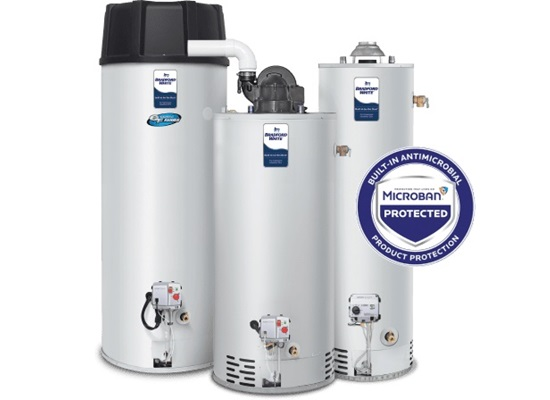
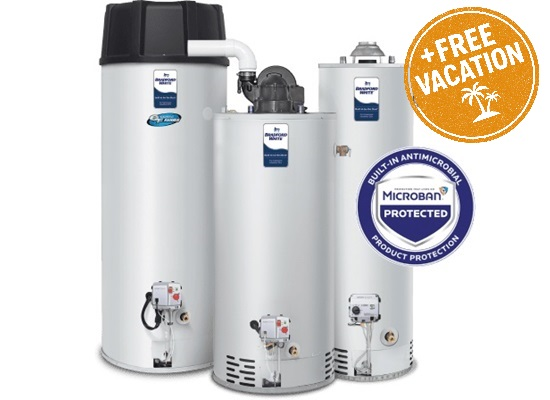
Fee Vacation promotion edits

Changed region(s): [[0.7109, 0.0, 0.9891, 0.36]]

diff --git a/freevacation.html b/freevacation.html
@@ -2,7 +2,7 @@
 <html lang="en">
   <head>
     <meta charset="utf-8" />
-    <title>Promotion: Buy a Water Heater and Get a Free Vacation</title>
+    <title>Buy a Water Heater and Get a Free Vacation</title>
     <meta content="width=device-width, initial-scale=1.0" name="viewport" />
     <link rel="canonical" href="https://galico.ca">
     <meta property="og:title" content="Galico | Professional Gas Installation">
@@ -252,9 +252,10 @@
                 </div>
               </div> 
 	
-	</section>
+	</section><p>
+	<i>Please note: “Free Vacation” refers only to hotel accommodation. Meals, transportation, taxes, and other travel expenses are the responsibility of the voucher holder. Visist RedeemVactions.com for <a href="https://www.redeemvacations.com/terms-and-conditions" target="_blank">Terms and Conditions</a>.</i>
+  </p>
   </div>
-
 
 <section class="container py-5" id="vacation-locations">
   <h2 class="mb-4">Choose from Tons of Exciting Destinations</h2>
@@ -265,8 +266,8 @@
     Stays typically range from 3 to 8 nights. Booking fees, nightly taxes, and surcharges may apply, and vary based on dates.  
     For 3-night stays, consider booking Sunday–Thursday to avoid higher weekend surcharges.  
     Many hotels accept <strong>2 children up to 12 years</strong> in the room with adults (21+), though not all properties guarantee this.
-	Please visist RedeemVactions.com for <a href="https://www.redeemvacations.com/terms-and-conditions" target="_blank">Terms and Conditions</a>.
   </p>
+  
 
   <div class="row g-4">
   

diff --git a/waterheater.html b/waterheater.html
@@ -2,7 +2,7 @@
 <html lang="en">
   <head>
     <meta charset="utf-8" />
-    <title>Galico - Affordable Water Heater and Home Comfort</title>
+    <title>Buy a Water Heater and Get a FREE Vacation!</title>
     <meta content="width=device-width, initial-scale=1.0" name="viewport" />
     <meta name="keywords" content="Gas services in Almonte, Arnprior, Carleton Place, Carp, Kanata, Nepean, Perth, Stittsville, Smiths Falls; trusted gas technician, gas range installation, gas stove installation, tankless water heater installation, radiant floor installation, gas BBQ connection." />
 	<meta name="description" content="Galico is a highly-rated provider of gas services in Almonte and surrounding areas. They specialize in gas appliance installation and new construction, with a 5-star rating on Google and fast, reliable service." />
@@ -424,7 +424,8 @@ document.addEventListener("DOMContentLoaded", function() {
     <!-- Product Details -->
 
     <div class="col-md-6">
-      <h1 class="mb-3">Bradford White Tank Type Water Heater</h1>
+      <h1 class="mb-3">Tank Type Water Heater + Free Vacation ⛱</h1>
+	  <a href="freevacation.html" target="_blank">Limited Time Promotion</a>
       <!-- <p class="text-muted">Professional-grade natural gas water heater with flexible purchase options.</p> -->
 
       <!-- Purchase Type -->

diff --git a/thermostat.html b/thermostat.html
@@ -2,7 +2,7 @@
 <html lang="en">
   <head>
     <meta charset="utf-8" />
-    <title>Galico - Affordable Water Heater and Home Comfort</title>
+    <title>Galico | Affordable Water Heater and Home Comfort</title>
     <meta content="width=device-width, initial-scale=1.0" name="viewport" />
     <meta name="description" content="Professional smart thermostat installation in Ottawa, Carleton Place, Arnprior, Perth, and Smiths Falls. Expert setup for Nest, ecobee & more—save energy, control remotely, and integrate with Alexa or Google Home.">
     <meta name="keywords" content="smart thermostat installation Ottawa, Nest thermostat setup Carleton Place, ecobee installation Arnprior, HVAC smart control Perth, energy-saving thermostat Smiths Falls, smart home thermostat Ottawa, Alexa thermostat integration, Google Home thermostat, certified thermostat installer, remote temperature control, programmable thermostat upgrade, Honeywell smart thermostat">    <meta property="og:description" content="Providing reliable gas services for home builders and homeowners in West Ottawa, Ontario.">

diff --git a/gasconnection.html b/gasconnection.html
@@ -2,7 +2,7 @@
 <html lang="en">
   <head>
     <meta charset="utf-8" />
-    <title>Galico - Gas Appliance Connection</title>
+    <title>Galico | Gas Appliance Connection</title>
     <meta content="width=device-width, initial-scale=1.0" name="viewport" />
     <meta name="description" content="Professional gas appliance installation and natural gas ↔ propane conversion services in Ottawa, Carleton Place, Arnprior, Perth, and Smiths Falls. Licensed, safe, and code-compliant gas line hook-ups for cooktops, ranges, and dryers.">
     <meta name="keywords" content="gas appliance installation Ottawa, gas line installation Carleton Place, natural gas to propane conversion Arnprior, propane to natural gas conversion Perth, gas dryer hook-up Smiths Falls, certified gas fitter Ottawa, gas cooktop installation Eastern Ontario, LP gas conversion, residential gas connection, licensed gas technician Carleton Place, gas range hook-up Perth, safe gas line installation Smiths Falls">	<meta name="author" content="Galico">

diff --git a/gasfitting.html b/gasfitting.html
@@ -2,7 +2,7 @@
 <html lang="en">
   <head>
     <meta charset="utf-8" />
-    <title>Galico - Gas Fitting Work</title>
+    <title>Galico | Gas Fitting Work</title>
     <meta content="width=device-width, initial-scale=1.0" name="viewport" />
     <meta name="description" content="Licensed gas line installation, repair, and relocation services in Ottawa, Carleton Place, Arnprior, Perth, and Smiths Falls. Certified gas fitters providing safe, code-compliant gas piping for homes and businesses across Ottawa and West of Ottawa.">
     <meta name="keywords" content="gas line installation Ottawa, gas pipe fitting Carleton Place, gas line repair Arnprior, certified gas fitter Perth, gas line relocation Smiths Falls, residential gas piping Eastern Ontario, new gas line installation, gas line extension Ottawa, emergency gas line repair, Ontario gas code compliant, licensed gas technician, gas valve installation, gas line leak test, commercial gas piping">    <link rel="canonical" href="https://galico.ca">

diff --git a/index.html b/index.html
@@ -2,7 +2,7 @@
 <html lang="en">
   <head>
     <meta charset="utf-8" />
-    <title>Promotion: Buy a Water Heater and Get a Free Vacation</title>
+    <title>Galico | Affordable Water Heaters and Home Comfort</title>
     <meta content="width=device-width, initial-scale=1.0" name="viewport" />
     <meta name="keywords" content="Gas services in Almonte, Arnprior, Carleton Place, Carp, Kanata, Nepean, Perth, Stittsville, Smiths Falls; trusted gas technician, gas range installation, gas stove installation, tankless water heater installation, radiant floor installation, gas BBQ connection." />
 	<meta name="description" content="Galico is a highly-rated provider of gas services in Almonte and surrounding areas. They specialize in gas appliance installation and new construction, with a 5-star rating on Google and fast, reliable service." />

diff --git a/onboarding.html b/onboarding.html
@@ -2,7 +2,7 @@
 <html lang="en">
   <head>
     <meta charset="utf-8" />
-    <title>Galico - Affordable Water Heater Subscription</title>
+    <title>Galico | Affordable Water Heater Subscription</title>
     <meta content="width=device-width, initial-scale=1.0" name="viewport" />
     <meta name="keywords" content="Gas services in Almonte, Arnprior, Carleton Place, Carp, Kanata, Nepean, Perth, Stittsville, Smiths Falls; trusted gas technician, gas range installation, gas stove installation, tankless water heater installation, radiant floor installation, gas BBQ connection." />
 	<meta name="description" content="Galico is a highly-rated provider of gas services in Almonte and surrounding areas. They specialize in gas appliance installation and new construction, with a 5-star rating on Google and fast, reliable service." />

diff --git a/faq.html b/faq.html
@@ -2,7 +2,7 @@
 <html lang="en">
   <head>
     <meta charset="utf-8" />
-    <title>Galico - Frequently Asked Questions</title>
+    <title>Galico | Frequently Asked Questions</title>
     <meta content="width=device-width, initial-scale=1.0" name="viewport" />
     <meta name="keywords" content="FAQ, appliance installation, tankless water heaters, radiant floor heating, smart thermostats, Galico Gas Services, Ottawa, Lanark County, Carleton Place, Perth, Mississippi Mills, Smiths Falls" />
 	<meta name="description" content="Find answers to frequently asked questions about appliance installation, tankless water heaters, radiant floor heating, smart thermostats, and more from Galico. Serving Ottawa-West and Lanark County" />
